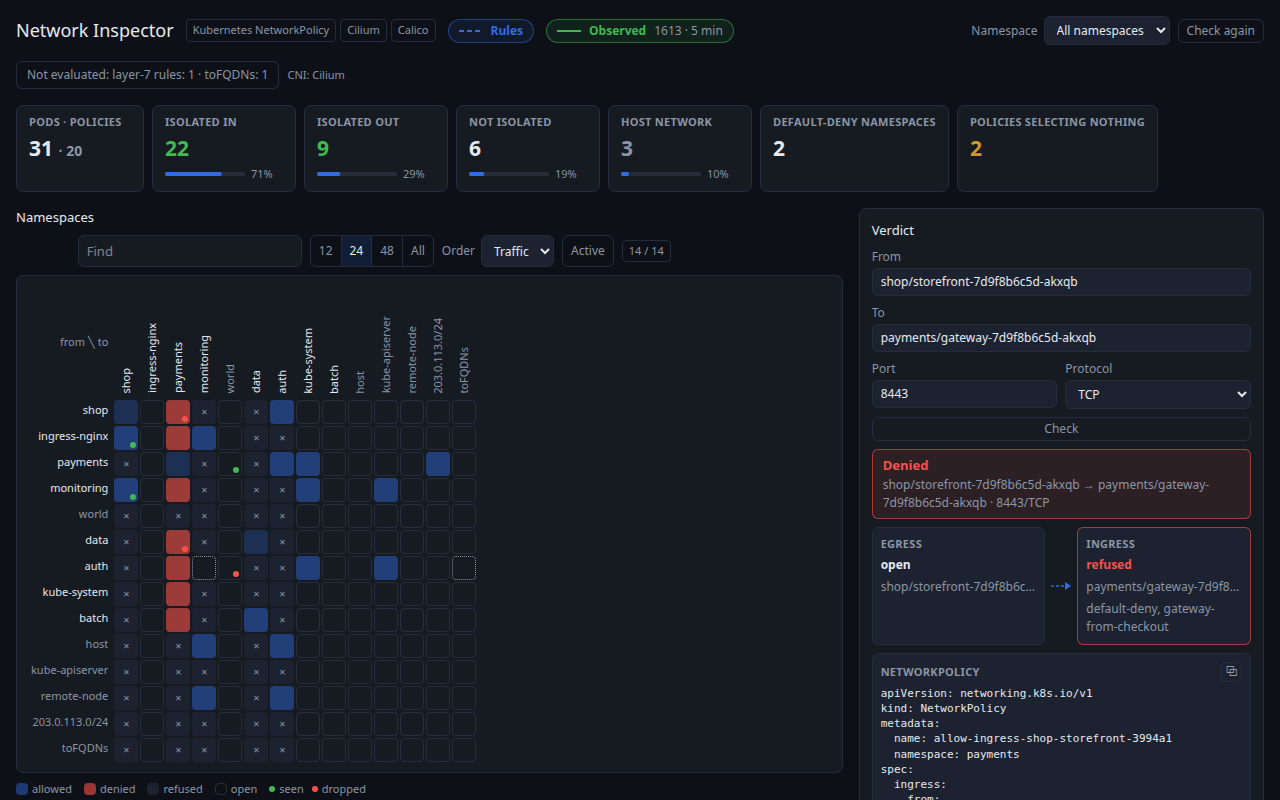
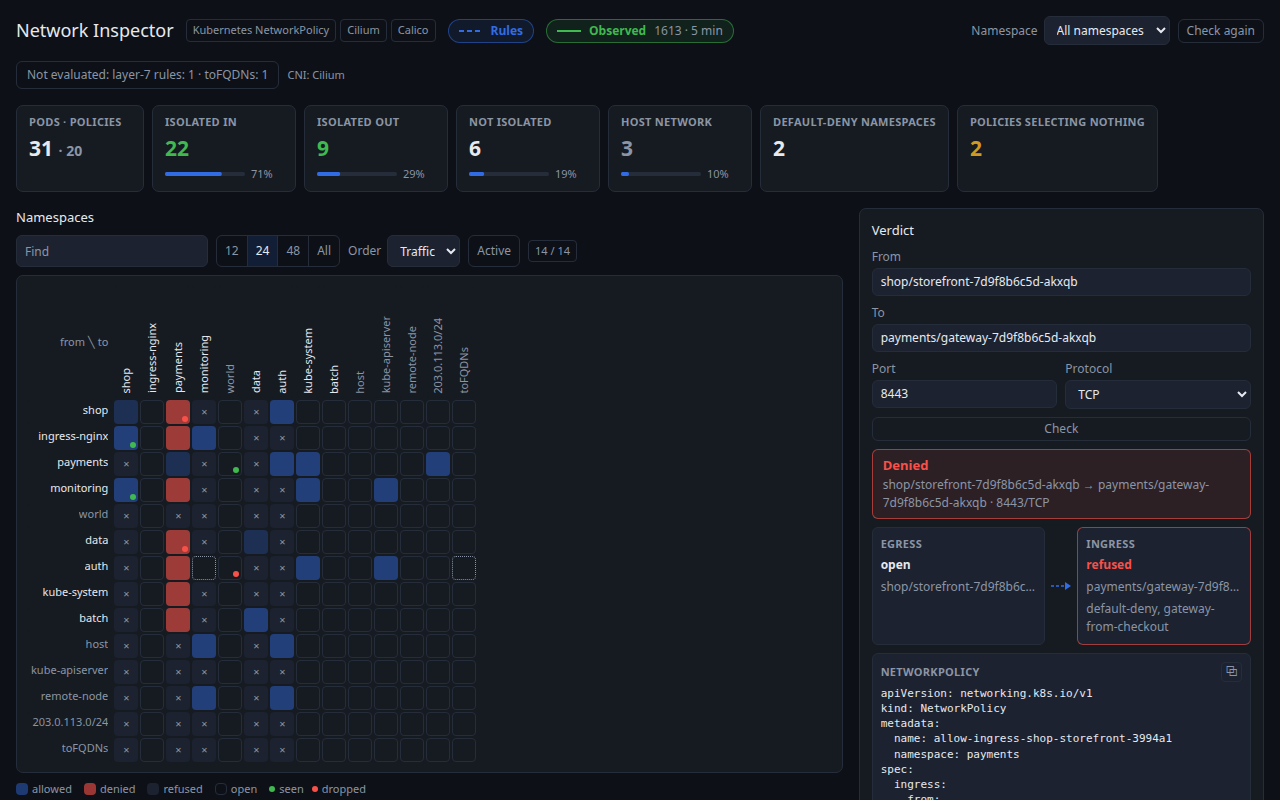
fix(netinspect): draw the matrix's find field flush with its controls

Changed region(s): [[0.2188, 0.2812, 0.4688, 0.3438], [0.0, 0.2812, 0.0625, 0.3438]]

diff --git a/web/app/extras/netinspect/Matrix.tsx b/web/app/extras/netinspect/Matrix.tsx
@@ -1,5 +1,5 @@
 import { memo, useState, type MouseEvent, type ReactNode } from 'react';
-import { FilterBox, focusRing } from '@kubetower/ui';
+import { focusRing } from '@kubetower/ui';
 
 import type { FlowEdge, Graph, GraphNode } from './data';
 import { fold, ORDERS, TOPS, type CellData, type FoldAsk, type Order } from './fold';
@@ -54,7 +54,15 @@ export function Matrix({
     <div className="flex flex-col gap-2" data-matrix="">
       {tools ? (
         <div className="flex flex-wrap items-center gap-2" data-matrix-tools="">
-          <FilterBox name="mq" value={ask.find} onChange={(mq) => onAsk({ mq })} label="Find a namespace" placeholder="Find" />
+          <input
+            type="search"
+            name="mq"
+            value={ask.find}
+            placeholder="Find"
+            aria-label="Find a namespace"
+            onChange={(e) => onAsk({ mq: e.target.value })}
+            className={`h-8 w-48 rounded-md border border-line bg-panel-2 px-2 text-xs text-fg placeholder:text-muted ${focusRing}`}
+          />
           <div role="group" aria-label="Namespaces drawn" className="flex">
             {TOPS.map((top, i) => (
               <button
